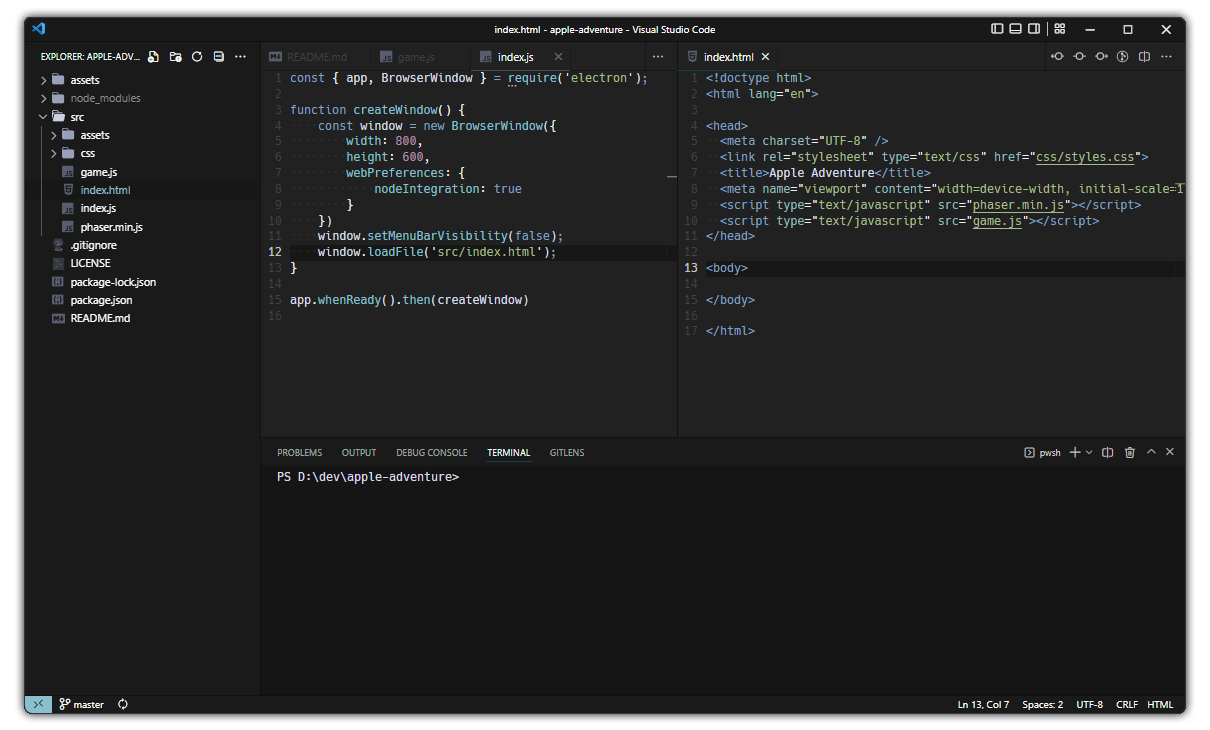
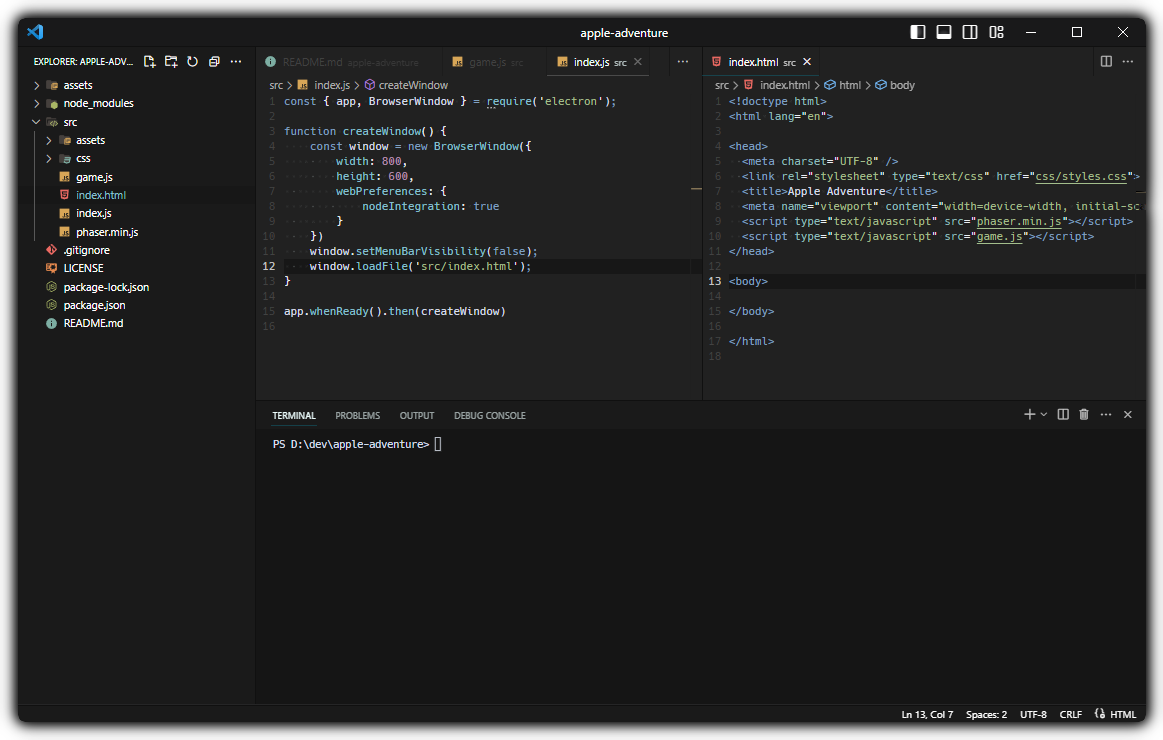
Update README instructions and figures

Changed region(s): [[0.0, 0.0, 1.0, 0.9945], [0.2167, 0.5425, 0.4953, 0.663]]

diff --git a/README.md b/README.md
@@ -14,7 +14,17 @@
 </div><br>
 
 # 📷 Gallery
-![Screenshot](assets/screenshot.png)
+<div align='center'>
+    <div><b>Nord Dark Contrast</b></div>
+</div>
+
+![Screenshot](assets/screenshot.png)<br>
+
+<div align='center'>
+    <div><b>Nord Dark Contrast Lighter</b></div>
+</div>
+
+![Screenshot](assets/screenshot2.png)
 
 # 🔌 Installation
 
@@ -22,15 +32,12 @@
 - Paste the command `ext install nord-dark-contrast`
 - Click __Install__ to install it
 - Click __Reload__ to reload your editor
-- Code/File ＞ Preferences ＞ Color Theme ＞ Nord Dark Contrast<br><br>
+- Code/File ＞ Preferences ＞ Color Theme ＞ `Nord Dark Contrast` | `Nord Dark Contrast Lighter`<br><br>
 
 # ✨ Suggestions
 
 ### Font
 - [Hack](https://sourcefoundry.org/hack/)
-
-### Extensions
-- [City Lights Icon package (Black & White)](https://marketplace.visualstudio.com/items?itemName=Yummygum.city-lights-icon-vsc)
 
 ### Settings
 ```json
